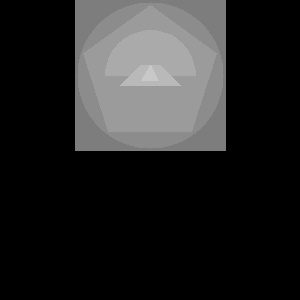
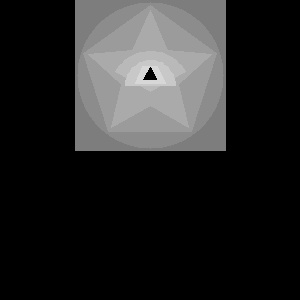
complete 8 jpg

Changed region(s): [[0.42, 0.18, 0.6, 0.3]]

diff --git a/showpic.h b/showpic.h
@@ -57,7 +57,7 @@ public:
     }
 
 private:
-        int ll = 10;
+        int ll = 8;
 };
 class Square : public Tx{
 public:
@@ -125,14 +125,15 @@ private:
 };
 class Ttx : public Tx{
 public:
-    Ttx(int h) : h(h) {}
+    Ttx(int h, int a, int b) : h(h), a(a), b(b) {}
     Ttx(){}
 
     void show(Mat &mat, const Point &center, const Scalar &scalar) override {
-        input.push_back(Point(center.x - this->h / 2.0,center.y - this->h /2.0));
-        input.push_back(Point(center.x + this->h / 2.0,center.y - this->h /2.0));
-        input.push_back(Point(center.x + this->h / 2.0 + this->h,center.y + this->h /2.0));
-        input.push_back(Point(center.x -  this->h / 2.0 - this->h,center.y + this->h /2.0));
+        int tt = (a + 2 * b) * h / (3.0 * (a + b));
+        input.push_back(Point(center.x - a / 2.0,center.y - tt));
+        input.push_back(Point(center.x + a / 2.0,center.y - tt));
+        input.push_back(Point(center.x + b / 2.0,center.y + h - tt));
+        input.push_back(Point(center.x - b / 2.0,center.y + h - tt));
 
 //        for(auto point : input){
 //            std::cout << point.x << " " << point.y << std::endl;
@@ -142,10 +143,11 @@ public:
     }
 
     void show_py(Mat &mat, const Point &center, const Scalar &scalar) override {
-        input.push_back(Point(center.x - this->h / 2.0,center.y - this->h /2.0));
-        input.push_back(Point(center.x + this->h / 2.0,center.y - this->h /2.0));
-        input.push_back(Point(center.x + this->h / 2.0 + this->h,center.y + this->h /2.0));
-        input.push_back(Point(center.x -  this->h / 2.0 - this->h,center.y + this->h /2.0));
+        int tt = (a + 2 * b) * h / (3.0 * (a + b));
+        input.push_back(Point(center.x - a / 2.0,center.y - tt));
+        input.push_back(Point(center.x + a / 2.0,center.y - tt));
+        input.push_back(Point(center.x + b / 2.0,center.y + h - tt));
+        input.push_back(Point(center.x - b / 2.0,center.y + h - tt));
         int py(0) ;
         if(center.y >= 150)
             py = 150 - input[0].y ;
@@ -162,7 +164,9 @@ public:
     }
 
 private:
-    int h = 20;
+    int h = 17;
+    int a = 15;
+    int b = 30;
 };
 class Circle : public Tx{
 public:
@@ -194,7 +198,8 @@ public:
     Halfcircle(int r, int initan, int endan) : r(r), initan(initan), endan(endan) {}
 
     void show(Mat &mat, const Point &center, const Scalar &scalar) override {
-        ellipse(mat,center,Size(r,r),0,initan,endan,scalar,-1);
+        Point center2(center.x,center.y + 4 * r / (3 * PI));
+        ellipse(mat,center2,Size(r,r),0,initan,endan,scalar,-1);
     }
 
     void show_py(Mat &mat, const Point &center, const Scalar &scalar) override {
@@ -203,8 +208,69 @@ public:
 
 
 private:
-    int r = 45;
+    int r = 25;
     int initan = 0;
     int endan = -180;
+};
+
+class Sx : public Tx{
+public:
+    Sx() {}
+    Sx(int r, int initan, int endan) : r(r), initan(initan), endan(endan) {}
+
+    void show(Mat &mat, const Point &center, const Scalar &scalar) override {
+        Point center2(center.x,center.y + 4 * r / (3 * PI));
+        ellipse(mat,center2,Size(r,r),0,initan,endan,scalar,-1);
+
+    }
+
+    void show_py(Mat &mat, const Point &center, const Scalar &scalar) override {
+
+    }
+
+private:
+    int r = 40;
+    int initan = -30;
+    int endan = -150;
+};
+class Wjx : public Tx {
+public:
+    Wjx() {}
+    Wjx(int r, int r1) : r(r), R(r1) {}
+
+    void show(Mat &mat, const Point &center, const Scalar &scalar) override {
+        std::vector<Point> input1;
+        std::vector<Point> input2;
+        Point tmp;
+        for(int i = 0;i < 5;i++){
+            tmp.x = center.x + cos((18 + 72 * i) / 180.0 * PI) * R;
+            tmp.y = center.y - sin((18 + 72 * i) / 180.0 * PI) * R;
+            input1.push_back(tmp);
+        }
+
+        for(int i = 0;i < 5;i++){
+            tmp.x = center.x + cos((54+ 72 * i) / 180.0 * PI) * r;
+            tmp.y = center.y - sin((54+ 72 * i) / 180.0 * PI) * r;
+            input2.push_back(tmp);
+        }
+        auto start = input2.begin();
+        for(auto init = input1.begin(); init != input1.end();init++){
+             start = input2.insert(start,(*init));
+             start++;
+             if( (start + 1) != input2.end())
+                 start++;
+        }
+        std::vector<std::vector<Point>> result;
+        result.push_back(input2);
+        fillPoly(mat,result,scalar);
+    }
+
+    void show_py(Mat &mat, const Point &center, const Scalar &scalar) override {
+
+    }
+
+private:
+    int r = 30;
+    int R = 65;
 };
 #endif //PIC2_SHOWPIC_H

diff --git a/main.cpp b/main.cpp
@@ -1,28 +1,32 @@
 #include <iostream>
 #include "showpic.h"
+#include <string>
 int main() {
     std::vector<Tx*> tx;
-    Mat  pic = Mat(300,300,CV_8UC1,Scalar(0));
+//    Mat  pic = Mat(300,300,CV_8UC1,Scalar(0));
     tx.push_back(new Square);
     tx.push_back(new Circle);
     tx.push_back(new Wbx);
+    tx.push_back(new Wjx);
+    tx.push_back(new Sx);
     tx.push_back(new Halfcircle);
     tx.push_back(new Ttx);
     tx.push_back(new Triangle);
     Point pp[] = {Point(75,75),Point(225,75),Point(225,225),Point(75,225),Point(150,75),Point(150,225)};
     std::vector<Scalar> scalar;
-    for(int i = 0;i < 6;i++){
-        scalar.push_back(Scalar(125 + 15 * i));
+    for(int i = 0;i < 8;i++){
+        scalar.push_back(Scalar(125 + 10 * i));
     }
     srand((unsigned )time(NULL));
     int index(0);
     for(int i = 0;i < tx.size();i++){
+        Mat  pic = Mat(300,300,CV_8UC1,Scalar(0));
         tx[i]->show(pic,pp[4],scalar[i]);
-
+        std::string  ouputname = std::to_string(i + 1) + ".jpg";
+        imwrite(ouputname,pic);
     }
 
-    imwrite("out.jpg",pic);
-    waitKey();
+//    waitKey();
     for(auto tmp : tx){
         delete  tmp;
     }
